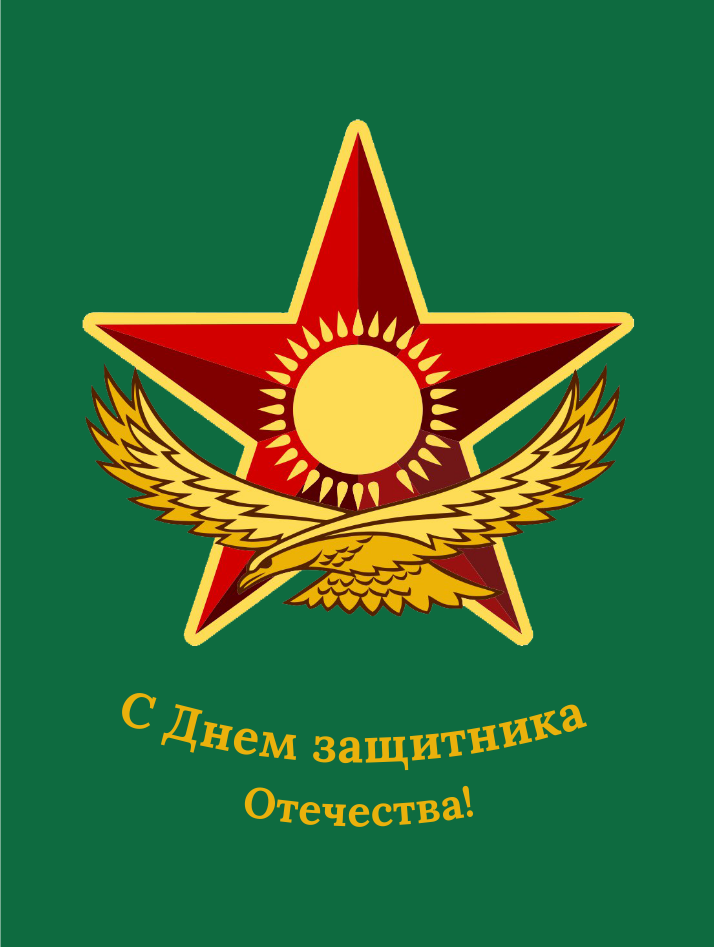
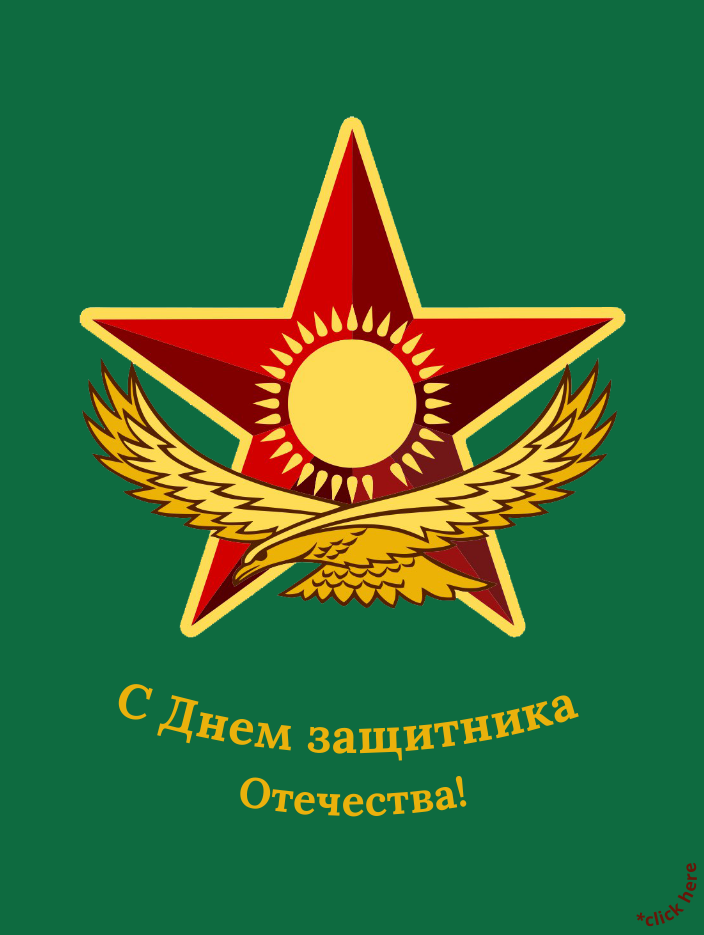
third commit

diff --git a/index.html b/index.html
@@ -2,13 +2,12 @@
 <html lang="en" >
 <head>
   <meta name="viewport" content="width=device-width, initial-scale=1">
-  <title>HBD TO ME</title>
+  <title>May 7th</title>
   <link href="https://fonts.googleapis.com/css?family=Indie+Flower" rel="stylesheet">
 <link href="https://fonts.googleapis.com/css?family=Amatic+SC" rel="stylesheet"><link rel="stylesheet" href="style.css">
 
 </head>
 <body>
-  
 <div class="card" onclick="openCard()">
 		<div class="imgBox">
 			<div class="bark"></div>
@@ -28,7 +27,6 @@
 			<p class="text-right">Best regards,</p>
 			<p class="text-right">Akma♥</p>
 		</div>
-		
 	</div>
 	
   <script  src="script.js"></script>

diff --git a/script.js b/script.js
@@ -2,4 +2,9 @@ function openCard() {
     var card = document.querySelector('.card');
     card.classList.toggle('opened');
   }
-  
+function toggleCard() {
+  var card = document.querySelector('.card');
+  card.classList.toggle('opened');
+}
+
+document.querySelector('.click-indicator').addEventListener('click', toggleCard);

diff --git a/style.css b/style.css
@@ -139,8 +139,6 @@ h4 {
 	text-align: right;
 }
 .card.opened {
-	/* Ваши стили для открытой открытки */
 	transform: translate(-50%,-50%) perspective(2000px) rotate(15deg) scale(1.2);
 	box-shadow: inset 20px 0 50px rgba(0,0,0,.5), 0 10px 100px rgba(0,0,0,.5);
   }
-  
